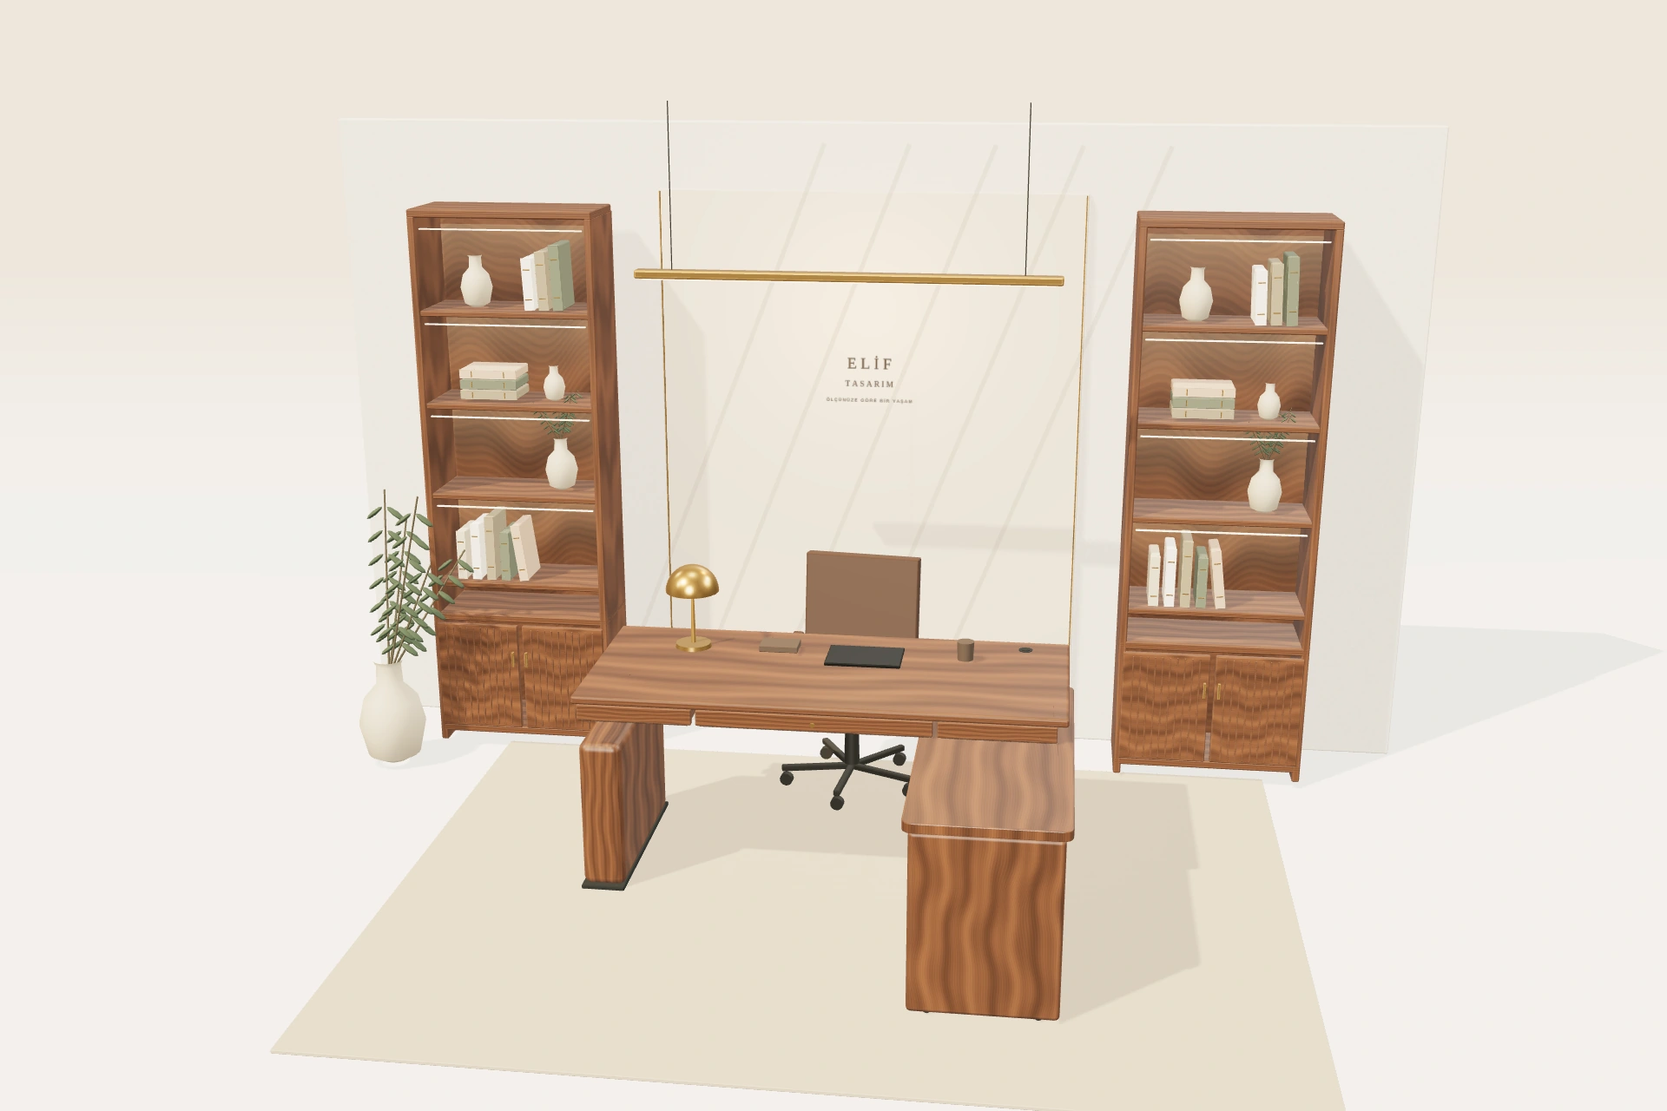
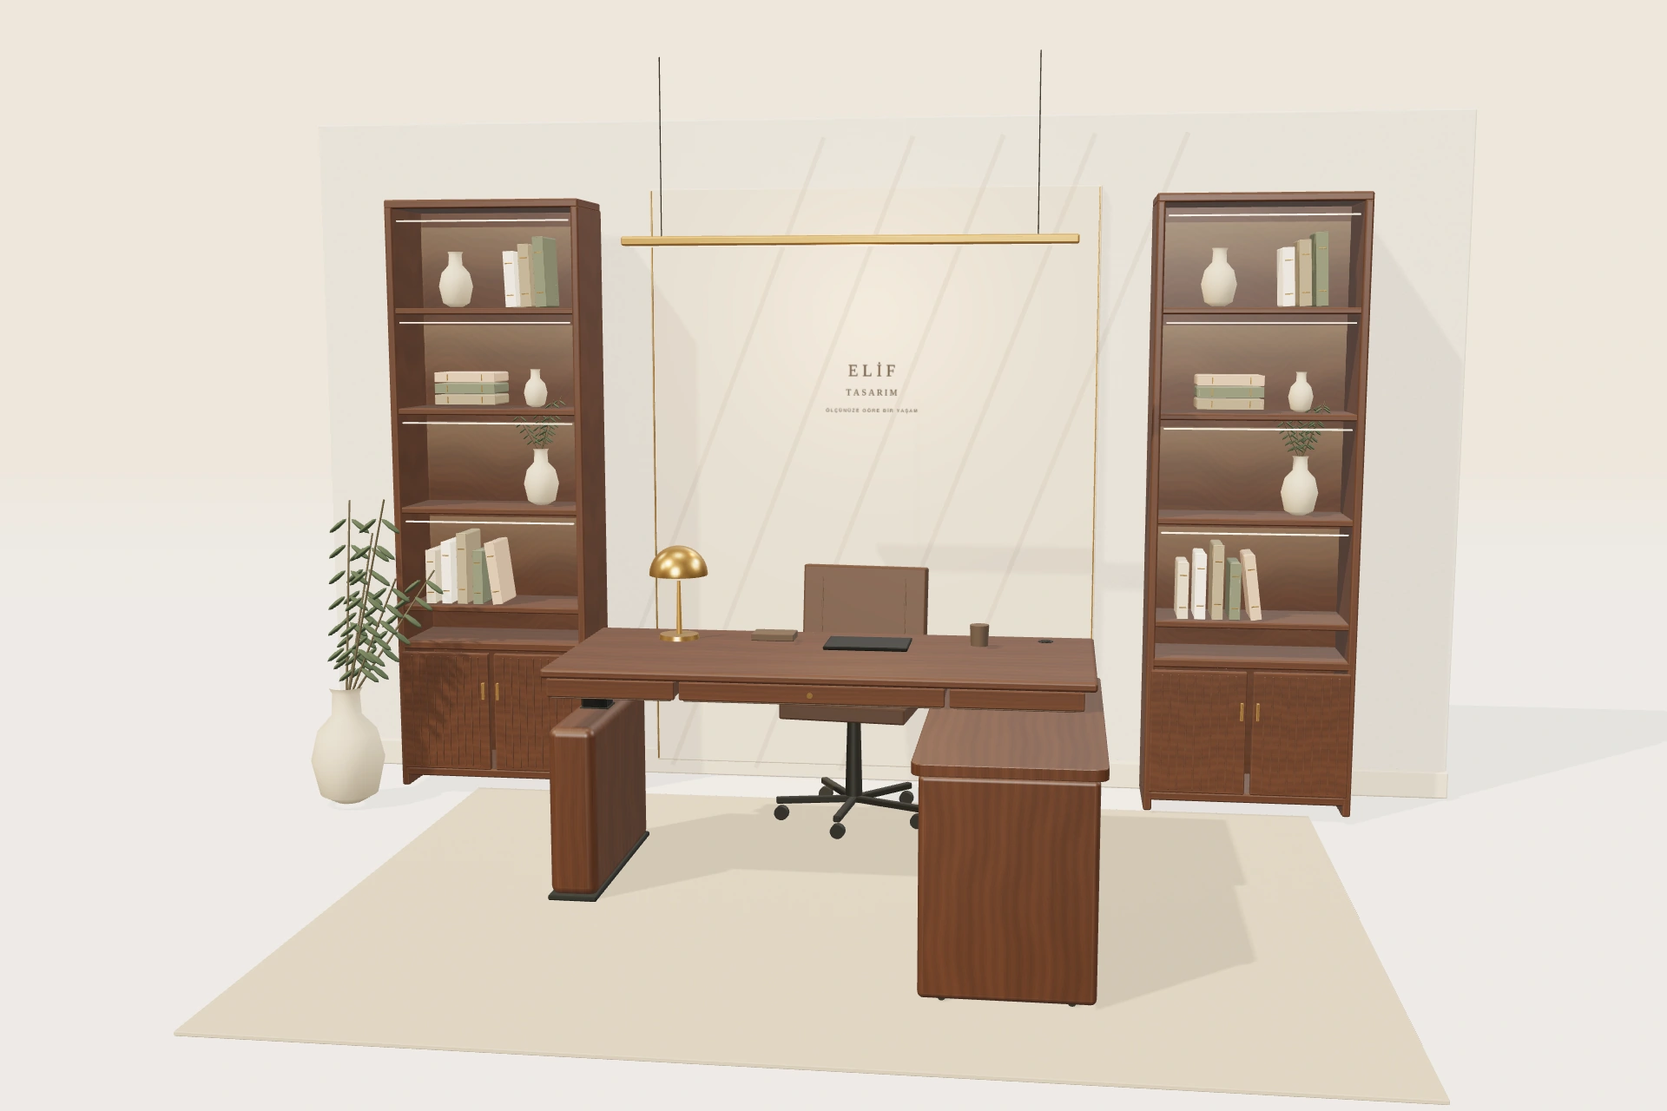
review(elif): preserve tested bilateral atelier source and candidate publication

Changed region(s): [[0.0938, 0.1562, 0.875, 1.0], [0.5, 0.3125, 0.5625, 0.375], [0.6875, 0.875, 0.7188, 0.9062]]

diff --git a/elif-tasarim/source-v9/src/components/DeskExperience.tsx b/elif-tasarim/source-v9/src/components/DeskExperience.tsx
@@ -5,7 +5,7 @@ import {projectStore} from '../lib/project';
 import {downloadText,publicHref} from '../lib/domain';
 
 type Props={query?:string;compact?:boolean;navigate:PageProps['navigate'];notify:PageProps['notify']};
-type State={config:StudioConfig;status:'poster'|'loading'|'ready'|'unavailable'|'lost';tab:'motion'|'size';dimensions:boolean;view:string;light:string;share:boolean;rotating:boolean;environment:'atelier'|'product';shelves:boolean;shelfLights:boolean;styling:boolean};
+type State={config:StudioConfig;status:'poster'|'loading'|'ready'|'unavailable'|'lost';tab:'motion'|'size'|'room';dimensions:boolean;view:string;light:string;share:boolean;rotating:boolean;environment:'atelier'|'product';shelves:boolean;shelfLights:boolean;styling:boolean};
 let runtimePromise:Promise<any>|null=null;
 function loadRuntime():Promise<any>{const w=window as any;if(w.ElifDesk3D)return Promise.resolve(w.ElifDesk3D);if(runtimePromise)return runtimePromise;runtimePromise=new Promise((resolve,reject)=>{const script=document.createElement('script');script.type='module';script.src=(w.__ELIF_BASE__||'/elif-tasarim')+'/three/desk-scene.mjs';script.onload=()=>w.ElifDesk3D?resolve(w.ElifDesk3D):reject(Error('3D initialization failed'));script.onerror=()=>{runtimePromise=null;script.remove();reject(Error('3D runtime unavailable'))};document.head.appendChild(script)});return runtimePromise;}
 export class DeskExperience extends Component<Props,State>{
@@ -25,16 +25,16 @@ export class DeskExperience extends Component<Props,State>{
  render(){const {config:c,status,tab,dimensions,view,light}=this.state,p=this.props,ready=status==='ready';return <div ref={e=>this.root=e} className={'v8-experience v9-experience '+(p.compact?'v8-compact':'v8-full')} data-studio={p.compact?'home':'full'} data-three-status={status}>
  <div className="v8-story"><Eyebrow>{p.compact?'05 / YAŞAYAN TASARIM MASASI':'ELİF TASARIM / DEVİR 01'}</Eyebrow>{p.compact?<h2>Çalışma alanınız,<br/><em>sizinle değişsin.</em></h2>:<h1>Kendi çalışma<br/>alanınızı <em>tasarlayın.</em></h1>}<p className="v8-lede">İki yanda raflar, elinizin altında çekmeceler. Işığı, ahşabı ve hareketi birlikte düşünün. Size ait bir çalışma alanı, ölçülerinizle şekillensin.</p>
  <div className="v8-design-note"><span className="v8-series-number">01</span><div><strong>DEVİR</strong><span>YÜKSEKLİK AYARLI ÇALIŞMA MASASI</span></div><span className="v8-concept-label">Konsept model</span></div>
- <div className="v8-control-tabs" role="tablist" aria-label="Tasarım kontrol grubu">{[['motion','Hareketi keşfet'],['size','Ölçünü belirle']].map(([id,name])=><button type="button" role="tab" key={id} aria-selected={tab===id} onClick={()=>this.setState({tab:id as any})}>{name}</button>)}</div>
- <div className="v8-controls" role="tabpanel" aria-label={tab==='motion'?'Hareket kontrolleri':'Ölçü kontrolleri'}>
- {tab==='motion'?<>{this.field('height','Çalışma yüksekliği',80,125)}{this.field('angle','Yan tabla açısı',0,360,'°')}<div className="v8-presets" aria-label="Masa yerleşimleri">{[['Toplu',0],['L düzen',90],['Açık',180]].map(([label,a])=><button type="button" key={label as string} aria-pressed={c.angle===a} onClick={()=>this.change({angle:a as number})}>{label}</button>)}</div><div className="v8-toggle-row"><button type="button" aria-pressed={c.drawers} onClick={()=>this.change({drawers:!c.drawers})}><Icon name="plus" size={16}/>{c.drawers?'Çekmeceleri kapat':'Çekmeceleri aç'}</button><button type="button" aria-pressed={c.door} onClick={()=>this.change({door:!c.door})}><Icon name="grid" size={16}/>{c.door?'Dolabı kapat':'Dolabı aç'}</button></div></>:<>{this.field('width','Masa eni',120,220)}{this.field('depth','Masa derinliği',65,95)}<p className="v8-control-note">Bu aralıklar görsel keşif içindir. Gerçek ölçü ve mekanizma, üretim öncesi birlikte netleştirilir.</p></>}
+ <div className="v8-control-tabs" role="tablist" aria-label="Tasarım kontrol grubu">{[['motion','Hareketi keşfet'],['size','Ölçünü belirle'],['room','Mekânı düzenle']].map(([id,name])=><button type="button" role="tab" key={id} aria-selected={tab===id} onClick={()=>this.setState({tab:id as any})}>{name}</button>)}</div>
+ <div className="v8-controls" role="tabpanel" aria-label={tab==='motion'?'Hareket kontrolleri':tab==='size'?'Ölçü kontrolleri':'Mekân kontrolleri'}>
+ {tab==='motion'?<>{this.field('height','Çalışma yüksekliği',80,125)}{this.field('angle','Yan tabla açısı',0,360,'°')}<div className="v8-presets" aria-label="Masa yerleşimleri">{[['Toplu',0],['L düzen',90],['Açık',180]].map(([label,a])=><button type="button" key={label as string} aria-pressed={c.angle===a} onClick={()=>this.change({angle:a as number})}>{label}</button>)}</div><div className="v8-toggle-row"><button type="button" aria-pressed={c.drawers} onClick={()=>this.change({drawers:!c.drawers})}><Icon name="plus" size={16}/>{c.drawers?'Çekmeceleri kapat':'Çekmeceleri aç'}</button><button type="button" aria-pressed={c.door} onClick={()=>this.change({door:!c.door})}><Icon name="grid" size={16}/>{c.door?'Dolabı kapat':'Dolabı aç'}</button></div></>:tab==='size'?<>{this.field('width','Masa eni',120,220)}{this.field('depth','Masa derinliği',65,95)}<p className="v8-control-note">Bu aralıklar görsel keşif içindir. Gerçek ölçü ve mekanizma, üretim öncesi birlikte netleştirilir.</p></>:<p className="v8-control-note">İki yandaki kitaplıkları, raf ışığını ve yaşam ayrıntılarını kendinize göre düzenleyin. Ürünü tek başına incelemek için yalın görünüme geçin.</p>}
  </div>
  <div className="v8-materials"><span>YÜZEY FİKRİ</span><div role="group" aria-label="Ahşap yüzey seçenekleri">{Object.entries(studioMaterials).map(([id,m])=><button type="button" key={id} aria-pressed={c.material===id} aria-label={m.name} onClick={()=>this.change({material:id as StudioConfig['material']})}><i className={'v8-swatch v8-'+id} style={{backgroundColor:m.color}}/><span>{m.name}</span></button>)}</div></div>
- <div className="v9-atmosphere"><span className="v9-control-kicker">MEKÂNIN ATMOSFERİ</span><div className="v9-mode-tabs" role="group" aria-label="Stüdyo görünümü"><button type="button" aria-pressed={this.state.environment==='atelier'} onClick={()=>this.atmosphere({environment:'atelier'})}>Mekân içinde</button><button type="button" aria-pressed={this.state.environment==='product'} onClick={()=>this.atmosphere({environment:'product'})}>Yalın ürün</button></div><div className="v9-atmosphere-options"><button type="button" aria-pressed={this.state.shelves} onClick={()=>this.atmosphere({shelves:!this.state.shelves})}><Icon name="grid" size={16}/><span>Çift taraflı raflar</span><i aria-hidden="true"/></button><button type="button" aria-pressed={this.state.shelfLights} onClick={()=>this.atmosphere({shelfLights:!this.state.shelfLights})}><Icon name="plus" size={16}/><span>Raf aydınlatması</span><i aria-hidden="true"/></button><button type="button" aria-pressed={this.state.styling} onClick={()=>this.atmosphere({styling:!this.state.styling})}><Icon name="leaf" size={16}/><span>Yaşam ayrıntıları</span><i aria-hidden="true"/></button></div><small>Raflar ve aksesuarlar mekân önerisidir. Masa kapsamı ayrıca belirlenir.</small></div>
+ {tab==='room'&&<div className="v9-atmosphere"><span className="v9-control-kicker">MEKÂNIN ATMOSFERİ</span><div className="v9-mode-tabs" role="group" aria-label="Stüdyo görünümü"><button type="button" aria-pressed={this.state.environment==='atelier'} onClick={()=>this.atmosphere({environment:'atelier'})}>Mekân içinde</button><button type="button" aria-pressed={this.state.environment==='product'} onClick={()=>this.atmosphere({environment:'product'})}>Yalın ürün</button></div><div className="v9-atmosphere-options"><button type="button" aria-pressed={this.state.shelves} onClick={()=>this.atmosphere({shelves:!this.state.shelves})}><Icon name="grid" size={16}/><span>Çift taraflı raflar</span><i aria-hidden="true"/></button><button type="button" aria-pressed={this.state.shelfLights} onClick={()=>this.atmosphere({shelfLights:!this.state.shelfLights})}><Icon name="plus" size={16}/><span>Raf aydınlatması</span><i aria-hidden="true"/></button><button type="button" aria-pressed={this.state.styling} onClick={()=>this.atmosphere({styling:!this.state.styling})}><Icon name="leaf" size={16}/><span>Yaşam ayrıntıları</span><i aria-hidden="true"/></button></div><small>Raflar ve aksesuarlar mekân önerisidir. Masa kapsamı ayrıca belirlenir.</small></div>}
  <div className="v8-primary-action">{p.compact?<Link className="button" to={'/tasarim-masasi?'+studioQuery(c)} navigate={p.navigate}>Stüdyoda devam et <Icon/></Link>:<button type="button" className="button" onClick={this.handoff}>Bu tasarımı Yusuf Usta ile konuş <Icon/></button>}<span>Ölçü, malzeme ve hareket alanını birlikte değerlendirelim.</span></div>
  </div>
  <div className="v8-showroom"><div className="v8-viewer-top"><div><span className="v8-live-dot"/><span>{ready?'CANLI 3D STÜDYO':'İNTERAKTİF TASARIM STÜDYOSU'}</span></div><span>ATELIER / DEVİR 01</span></div>
- <div className="v8-canvas-wrap"><div className="v8-canvas-host" ref={e=>this.host=e}/>{!ready&&<div className="v8-poster"><img src={image('devir-poster.webp')} alt="Çekmeceli ana tabla, dolap ve döner yan yüzeyli Devir 01 konsept çalışma masası"/><div className="v8-poster-action">{status==='poster'?<button type="button" aria-label="3D deneyimi başlat" onClick={this.start}><span className="v8-cube" aria-hidden="true">◇</span>3D deneyimi başlat <Icon size={18}/></button>:status==='loading'?<p role="status">Malzemeler ve ışık hazırlanıyor.</p>:<><p role="status">{status==='lost'?'3D görüntü bağlantısı kesildi.':'Bu cihazda 3D görünüm açılamadı.'}</p><small>Ölçü ve malzeme seçiminiz korunur. Tasarım özetiyle devam edebilirsiniz.</small></>}</div></div>}
+ <div className="v8-canvas-wrap"><div className="v8-canvas-host" ref={e=>this.host=e}/>{!ready&&<div className="v8-poster"><img src={image('devir-studio-v9.webp')} alt="İki yandaki ahşap kitaplıklarla Devir 01 çalışma masası. Gerçek üç boyutlu stüdyodan görünüm"/><div className="v8-poster-action">{status==='poster'?<button type="button" aria-label="3D deneyimi başlat" onClick={this.start}><span className="v8-cube" aria-hidden="true">◇</span>3D deneyimi başlat <Icon size={18}/></button>:status==='loading'?<p role="status">Malzemeler ve ışık hazırlanıyor.</p>:<><p role="status">{status==='lost'?'3D görüntü bağlantısı kesildi.':'Bu cihazda 3D görünüm açılamadı.'}</p><small>Ölçü ve malzeme seçiminiz korunur. Tasarım özetiyle devam edebilirsiniz.</small></>}</div></div>}
  <div className="v8-view-tabs" role="group" aria-label="Kamera açıları">{[['perspective','Perspektif'],['front','Önden'],['left','Soldan'],['right','Sağdan'],['top','Üstten']].map(([id,name])=><button type="button" key={id} disabled={!ready} aria-pressed={view===id} onClick={()=>this.setView(id)}>{name}</button>)}</div>
  <div className="v8-view-tools"><button type="button" disabled={!ready} aria-label="Stüdyoyu tam ekran aç" onClick={this.fullscreen}><Icon name="expand"/></button><button type="button" disabled={!ready} aria-label="Yakınlaştır" onClick={()=>this.engine?.zoom(.88)}><Icon name="plus"/></button><button type="button" disabled={!ready} aria-label="Uzaklaştır" onClick={()=>this.engine?.zoom(1.12)}><Icon name="minus"/></button><button type="button" disabled={!ready} aria-label="Görünümü sıfırla" onClick={()=>this.setView('perspective')}>↺</button><button type="button" disabled={!ready} aria-label="Ölçü çizgilerini göster" aria-pressed={dimensions} onClick={()=>this.setState({dimensions:!dimensions},()=>this.engine?.dimensions(this.state.dimensions))}><Icon name="ruler"/></button></div>
  <span className="v8-canvas-hint">{ready?'Sürükleyerek döndürün. Klavyede ok tuşlarını kullanın.':'Gerçek zamanlı üç boyutlu model'}</span><span className="v8-scene-label">Konsept model</span>

diff --git a/elif-tasarim/source-v9/src/v9.css b/elif-tasarim/source-v9/src/v9.css
@@ -10,3 +10,21 @@
 @media(max-width:860px){.v9-experience{grid-template-columns:minmax(0,1fr)}.v9-experience .v8-showroom{position:relative;top:auto;grid-row:1}.v9-experience .v8-story{grid-row:2;padding-top:15px}.v9-experience .v8-canvas-wrap{height:520px}.v9-category-row{grid-template-columns:repeat(8,135px);overflow-x:auto;scroll-snap-type:x proximity;scroll-padding:5%;padding-bottom:8px}.v9-category-card{scroll-snap-align:start}.v9-category-card>span{font-size:12px}.v9-home .v6-hero{height:78svh;min-height:610px}.v9-craft-copy h2{font-size:36px}.v9-home .v6-section{padding-top:62px;padding-bottom:62px}}
 @media(max-width:540px){.v9-experience .v8-canvas-wrap{height:405px}.v9-experience .v8-story h1,.v9-experience .v8-story h2{font-size:42px}.v9-experience .v8-viewer-top{padding:13px;font-size:8px;letter-spacing:.07em}.v9-experience .v8-view-tabs{bottom:41px;left:9px;max-width:calc(100% - 18px);gap:0}.v9-experience .v8-view-tabs button{padding:5px 9px;font-size:10px;min-height:35px}.v9-experience .v8-view-tools{top:45px;right:9px;gap:6px}.v9-experience .v8-view-tools button{width:35px;height:35px}.v9-experience .v8-scene-label{font-size:9px;top:12px;left:12px}.v9-experience .v8-canvas-hint{left:8px;bottom:8px;font-size:9px;max-width:90%}.v9-experience .v8-viewer-bottom{padding:16px}.v9-experience .v8-experience-foot{padding:13px}.v9-experience .v8-engineering-note{padding:0 13px 15px}.v9-home .v6-hero{height:82svh;min-height:620px}.v9-home .v6-hero-inner h1{font-size:49px;line-height:1.03}.v9-home .v6-hero-inner p{font-size:14px;line-height:1.8}.v9-home .v6-hero-actions{flex-direction:column;align-items:flex-start;gap:18px}.v9-category-strip{padding-top:19px}.v9-category-row{grid-template-columns:repeat(8,130px);gap:12px}.v9-home .work-photo{aspect-ratio:5/4}.v9-craft-story{grid-template-columns:1fr;gap:27px;padding-top:35px;padding-bottom:35px}.v9-craft-image{height:230px}.v9-craft-copy h2{font-size:37px}.v9-craft-points{gap:16px}.v9-home .v6-section{padding-top:52px;padding-bottom:52px}}
 @media(prefers-reduced-motion:reduce){.v9-experience *,.v9-home *{transition:none!important;animation:none!important;scroll-behavior:auto!important}}
+
+/* Photo aspect ratio must not derive an intrinsic width from an inherited fixed height. */
+.v9-home .work-photo{width:100%;height:auto;min-width:0}.v9-home .work-grid>*{min-width:0}
+
+/* One quieter masthead, rather than two competing horizontal bars. */
+@media(min-width:1280px){
+ .v6-header{position:relative}.v6-header .v6-header-main{height:90px;min-height:90px;grid-template-columns:auto 1fr;border:0;gap:15px}.v6-header .v6-header-note{display:none}.v6-header .brand{justify-self:start}.v6-header .brand>span{font-size:20px;letter-spacing:.16em}.v6-header .brand img{height:61px;width:25px}.v6-header .brand small{font-size:8px;letter-spacing:.095em}.v6-header .v6-header-tools{justify-self:end}.v6-header .v6-header-cta{display:none}.v6-header .v6-header-nav{position:absolute;top:0;left:54%;transform:translateX(-50%);height:90px;min-height:0;width:auto;gap:19px;border:0;white-space:nowrap;padding:0}.v6-header .v6-header-nav a{font-size:11px}.v6-header.site-header.is-floating .v6-header-nav{height:75px}.v6-header.site-header.is-floating .v6-header-main{height:75px;min-height:75px}
+ .v8-studio-page{padding-top:35px}.v9-experience .v8-showroom{top:87px}.v9-experience .v8-story{padding-top:7px}.v9-experience .v8-story h1{margin-top:16px}
+}
+@media(min-width:901px) and (max-width:1279px){.v6-header .v6-header-nav{display:none}.v6-header .v6-header-note{display:none}.v6-header .v6-menu-toggle{display:grid}.v6-header .v6-header-main{grid-template-columns:1fr auto 1fr;height:84px;min-height:84px}.v6-header .v6-header-tools{justify-self:end}.v6-header .brand{justify-self:center}.v6-header .v6-header-cta{display:none}}
+.v9-experience .v8-control-tabs{gap:20px}.v9-experience .v8-control-tabs button{font-size:11px;flex:1;text-align:left;line-height:1.5}.v9-experience .v8-design-note{margin-bottom:15px}.v9-experience .v8-control-tabs{margin-bottom:10px}.v9-experience .v8-controls{min-height:0}.v9-experience .v8-primary-action{margin-top:20px}.v9-experience .v8-materials{margin:22px 0}.v9-experience .v8-materials button{min-width:70px;min-height:66px}.v9-experience .v8-toggle-row{display:grid;grid-template-columns:1fr 1fr;gap:9px}.v9-experience .v8-toggle-row button{border:1px solid #d8cbb8;border-radius:3px;padding:10px;font-size:11px;min-height:44px}
+.v9-experience .v8-view-tools button{min-width:40px;min-height:40px}.v9-experience .v8-view-tabs button{min-height:40px}
+@media(max-width:540px){.v9-experience .v8-control-tabs{gap:12px}.v9-experience .v8-control-tabs button{font-size:12px}.v9-experience .v8-view-tabs{max-width:calc(100% - 18px);overflow-x:auto}.v9-experience .v8-view-tools button{min-width:38px;min-height:38px}.v9-home .work-caption h3{font-size:22px}.v9-home .work-caption p{font-size:11px}.v9-home .work-grid{gap:26px 14px}}
+
+/* Inactive camera controls must never cover the explicit start action. */
+.v9-experience:not([data-three-status="ready"]) .v8-view-tabs,.v9-experience:not([data-three-status="ready"]) .v8-view-tools{display:none}
+.v9-experience .v8-poster-action{bottom:125px}.v9-experience .v8-poster-action button{scroll-margin-top:180px;scroll-margin-bottom:110px}
+@media(max-width:540px){.v9-experience .v8-poster-action{bottom:120px}.v9-experience .v8-poster-action button{font-size:13px;min-height:54px}}

diff --git a/elif-tasarim/source-v9/tests/v9/browser.py b/elif-tasarim/source-v9/tests/v9/browser.py
@@ -36,6 +36,7 @@ with sync_playwright() as p:
   record('Desk remains framed with room visible',all(abs(v)<=1.02 for v in s['framing'].values()),s['framing'])
   page.screenshot(path=str(OUT/'studio-desktop.png'));page.locator('.v8-showroom').screenshot(path=str(OUT/'showroom.png'))
   day=capture('atelier-day',True)
+  page.get_by_role('tab',name='Mekânı düzenle',exact=True).click()
   page.get_by_role('button',name='Raf aydınlatması',exact=True).click();record('Shelf illumination is switchable',not state()['atelier']['lights'])
   page.get_by_role('button',name='Raf aydınlatması',exact=True).click()
   page.get_by_role('button',name='Çift taraflı raflar',exact=True).click();s=state();record('Hidden shelves never leave floating books',not s['atelier']['shelves'] and not s['atelier']['shelfPropsVisible'])
@@ -48,6 +49,7 @@ with sync_playwright() as p:
    page.get_by_role('button',name=label,exact=True).click();page.wait_for_timeout(250);record('Desk and shelving material '+kind,state()['material']==kind and state()['atelier']['material']==kind)
   page.get_by_role('button',name='Akşam',exact=True).click();page.wait_for_timeout(450);evening=capture('atelier-evening');record('Evening setting changes render',day!=evening and state()['atelier']['theme']=='evening')
   page.get_by_role('button',name='Gün ışığı',exact=True).click()
+  page.get_by_role('tab',name='Hareketi keşfet',exact=True).click()
   slider('Çalışma yüksekliği',113);s=state();record('Upper lifts independently of base and shelves',abs(s['geometry']['mainTopY']-1.13)<.004 and s['geometry']['fixedPanelY']==.305 and s['geometry']['returnTopY']==.695,s['geometry'])
   slider('Yan tabla açısı',180);page.wait_for_function('Math.abs(document.querySelector(".v8-canvas-host").__elif3D.inspect().geometry.wingAngle-Math.PI)<.01')
   page.get_by_role('button',name='Çekmeceleri aç',exact=True).click();page.get_by_role('button',name='Dolabı aç',exact=True).click();page.wait_for_function('document.querySelector(".v8-canvas-host").__elif3D.inspect().geometry.doorAngle < -1.5')
@@ -64,7 +66,7 @@ with sync_playwright() as p:
   for w in [360,390,768,1024,1440,1920]:
    page.set_viewport_size({'width':w,'height':950});page.wait_for_timeout(300);record('Studio reflow '+str(w),page.evaluate('document.documentElement.scrollWidth<=innerWidth+1'))
   page.set_viewport_size({'width':390,'height':844});page.evaluate('scrollTo(0,0)');page.wait_for_timeout(400);page.screenshot(path=str(OUT/'studio-mobile.png'));page.locator('.v8-showroom').screenshot(path=str(OUT/'studio-mobile-full.png'))
-  page.goto(BASE,wait_until='networkidle');page.screenshot(path=str(OUT/'home-mobile.png'))
+  page.goto(BASE,wait_until='networkidle');record('Home mobile has no overflow',page.evaluate('document.documentElement.scrollWidth<=innerWidth+1'));page.screenshot(path=str(OUT/'home-mobile.png'))
   page.get_by_role('button',name='3D deneyimi başlat',exact=True).click();page.wait_for_selector('[data-three-status="ready"]',timeout=45000);record('Home starts same bilateral scene',len(state()['atelier']['bookcases'])==2)
   page.goto(BASE+'iletisim/',wait_until='networkidle');record('Scene disposed after navigation',page.locator('.v8-canvas-host canvas').count()==0)
   record('No JavaScript exceptions',not errors,errors);record('No unexpected remote requests',not outbound,outbound[:10])

diff --git a/elif-tasarim/source-v9/docs/V9_LEDGER.md b/elif-tasarim/source-v9/docs/V9_LEDGER.md
@@ -8,3 +8,5 @@ Environment observation. Local Chromium cannot create WebGL2, including a minima
 Ruling. Reuse existing licensed local Three.js engine and repository assets. No third-party photographs or generated fake city projects imported from design mockups.
 Ruling. Shelf books and styling hide with shelves. Room props and shelf lighting are independently controlled. Furniture scope disclaimer remains.
 Pending. Actual CI screenshots, correction cycle, post-correction regression suite, release-only subtree update and live verification.
+
+CI stage 1. Geometry, shelves, motion, material and all studio widths passed. Actual pointer test caught the poster start button under inactive camera controls on mobile. Fix hides inactive controls and reserves launch clearance. Local geometry found a separate home photo width regression from inherited height plus new aspect-ratio. Fixed with width:100% and height:auto. Raw failures retained, not relabeled as success.
